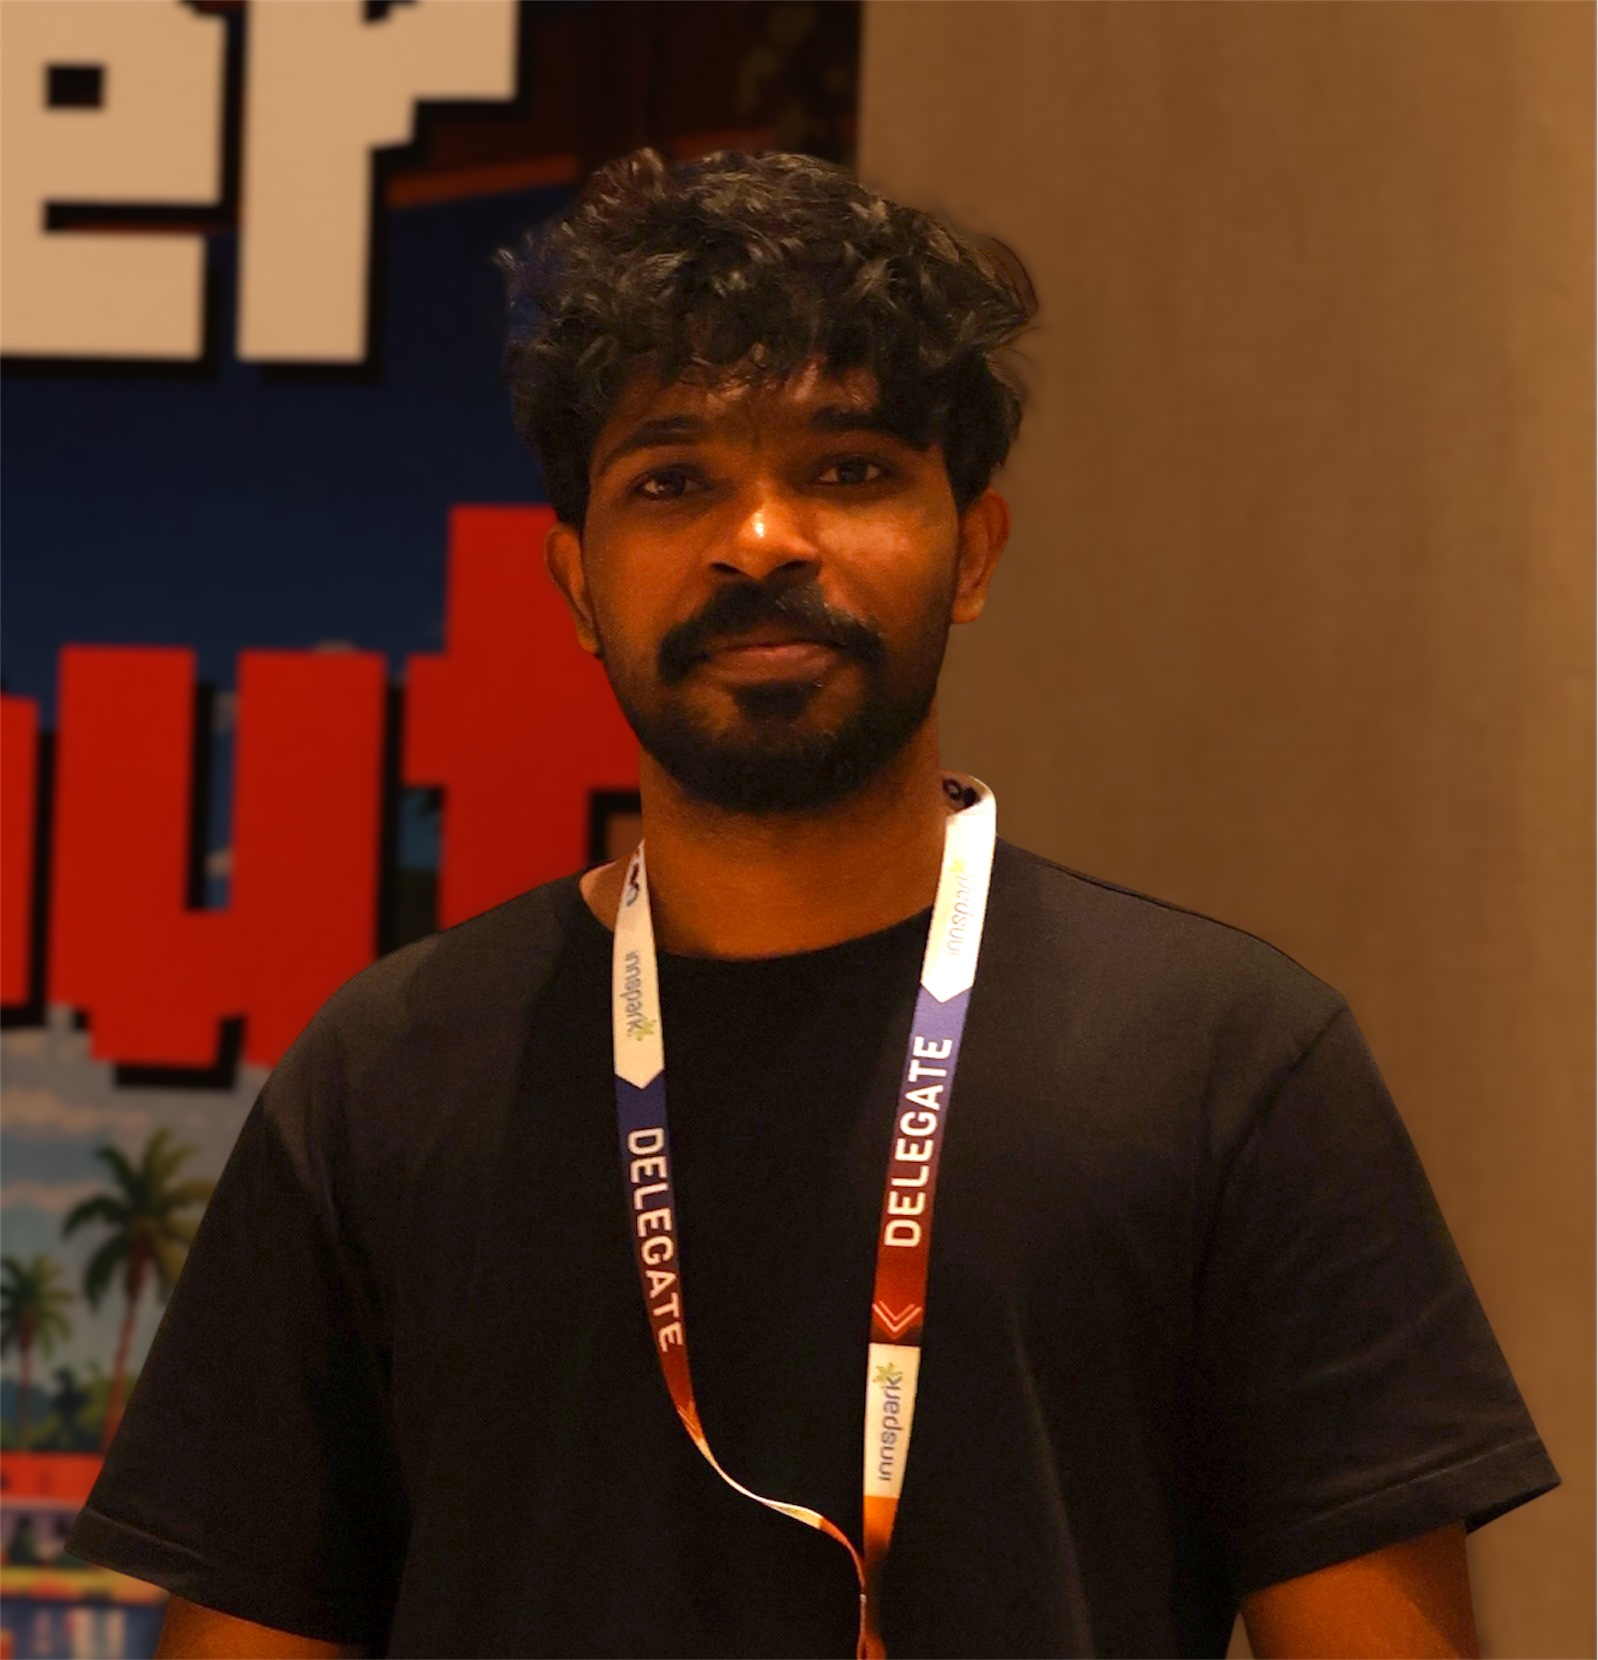
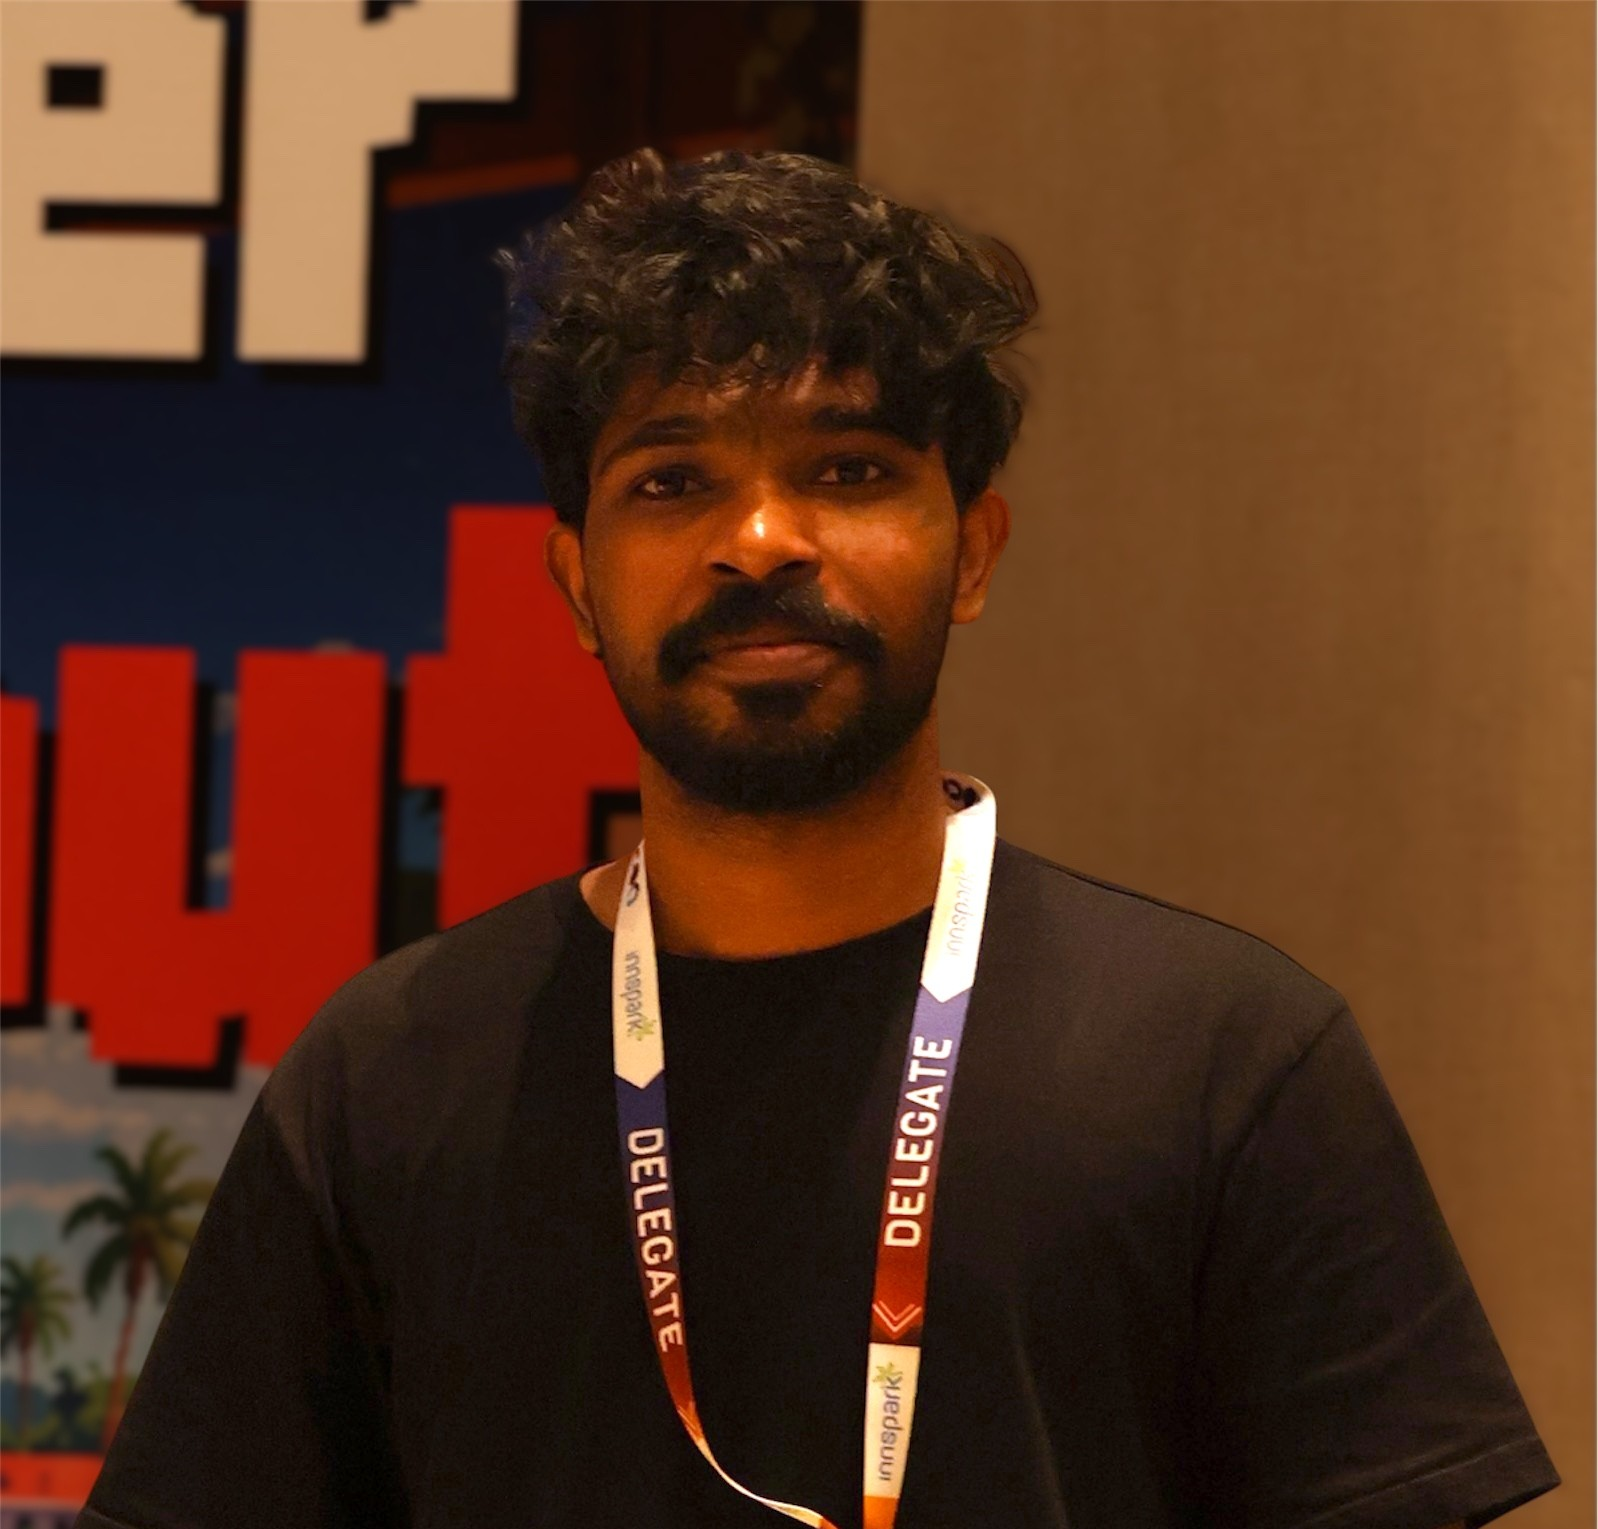
Updated about-us

Changed region(s): [[0.0, 0.0307, 0.9812, 1.0], [0.0, 0.0307, 0.2453, 0.2459]]

diff --git a/about-us/index.html b/about-us/index.html
@@ -243,7 +243,7 @@
 
 
         <div class="card reveal">
-          <div class="card-img"><img src="team/fahad-faisal.jpg" alt=""></div>
+          <div class="card-img"><img src="team/fahad-faisal.png" alt=""></div>
           <div class="card-body">
             <h3>Fahad Faisal </h3>
             <p>Ground Ops</p>
